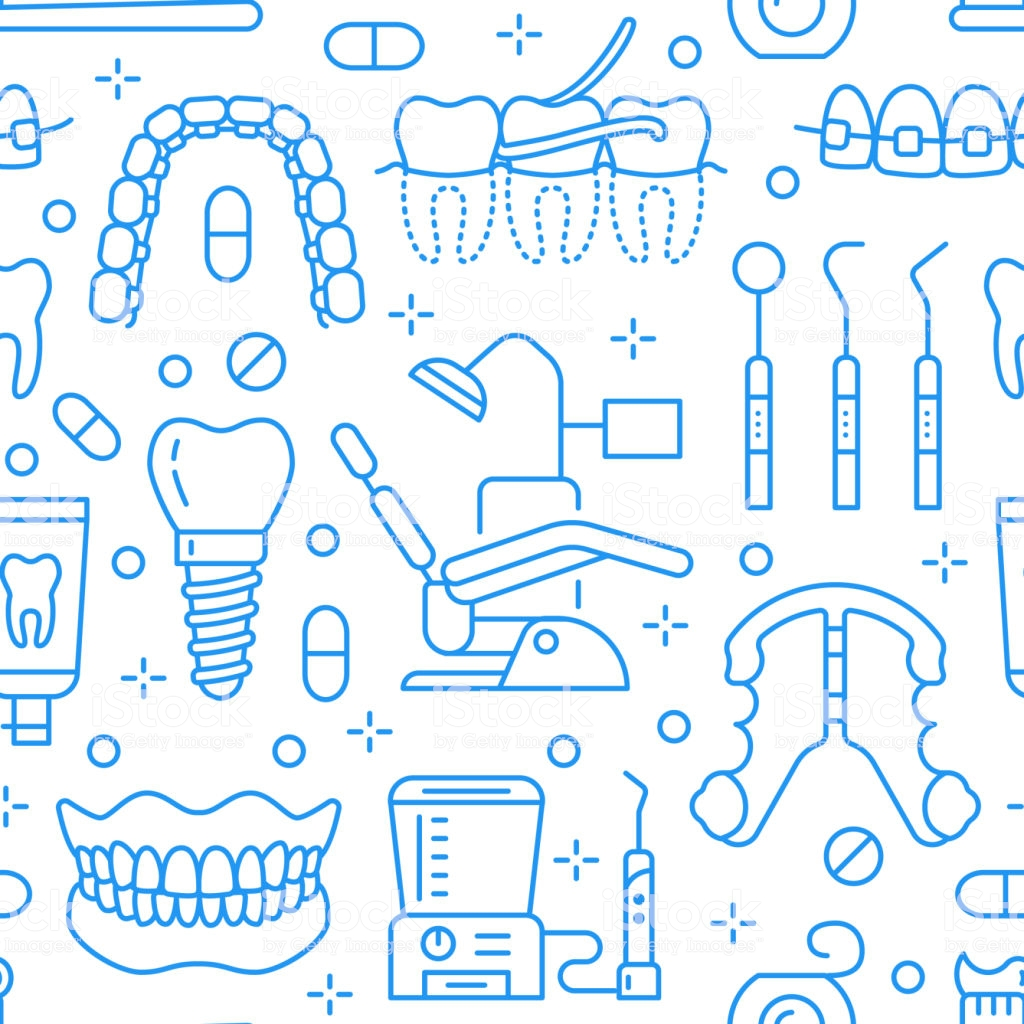
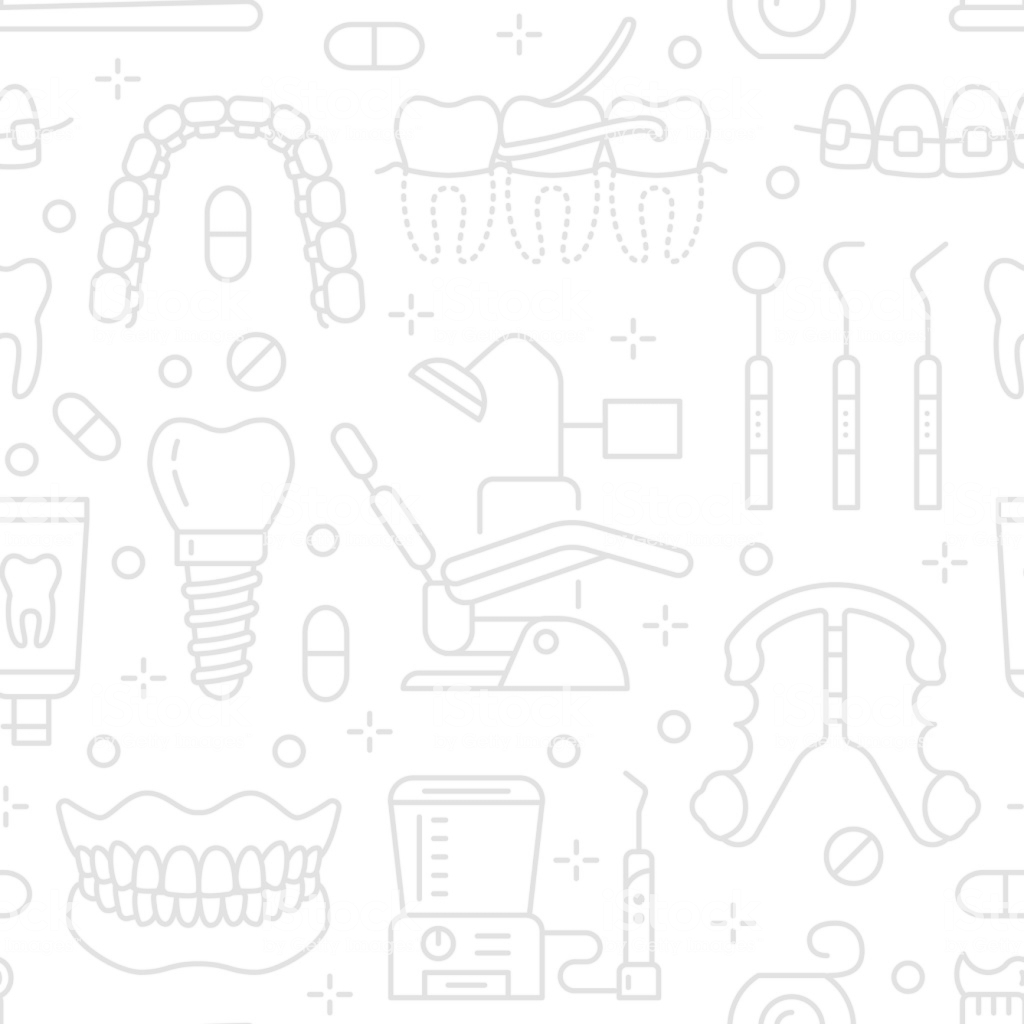
Últimos ajustes na estética / fundo Co-authored-by: Renan <renan.tssilva@gmail.com> Co-authored-by: Vitor <vitor.ricardo.oliveira@gmail.com> Co-authored-by: Eduardo <eduwzin@usp.br>

diff --git a/src/app/text-by-themes/text-by-themes.page.html b/src/app/text-by-themes/text-by-themes.page.html
@@ -15,7 +15,7 @@
 </ion-header>
 
 <ng-container *ngIf="myInput;else newTextList">
-  <ion-content padding>
+  <ion-content padding class="page-content">
     <ion-card *ngFor="let text of texts" (click)="goToDetail($event, text)">
       <ion-item>
         <span class="card-text">{{text.title}}</span>
@@ -25,7 +25,7 @@
 </ng-container>
 
 <ng-template #newTextList>
-  <ion-content padding>
+  <ion-content padding class="page-content">
     <ion-refresher (ionRefresh)="doRefresh($event)">
       <ion-refresher-content>
       </ion-refresher-content>

diff --git a/src/app/home/home.page.ts b/src/app/home/home.page.ts
@@ -28,7 +28,6 @@ export class HomePage {
     this.initialize();
   }
 
-
   async initialize() {
     const loading = await this.loadingCtrl.create({
       message: "Carregando"
@@ -42,7 +41,7 @@ export class HomePage {
           console.log(data)
         },
         error => {  
-          this.utilFunctions.presentAlert(error);
+          this.utilFunctions.presentAlert("Você está offline!\nVeja seus textos salvos.");
         }
       );
       loading.dismiss();

diff --git a/src/app/requisitions.service.ts b/src/app/requisitions.service.ts
@@ -7,7 +7,7 @@ import { Http, ResponseContentType } from '@angular/http'
 export class RequisitionsService {
   public key = 'cd48e1c22de0961d5d1bfb14f8a66e006cfb1cfbf3f0c0f3'
   //public endpoint = "http://evident.tk" 
-  public endpoint = "http://192.168.42.148:5000" 
+  public endpoint = "http://192.168.42.25:5000" 
   public bodyThemesList = { "key": this.key }
   public bodyTextList = {
                           "key": this.key,

diff --git a/src/app/my-saved-texts/my-saved-texts.page.html b/src/app/my-saved-texts/my-saved-texts.page.html
@@ -7,7 +7,7 @@
   </ion-toolbar>
 </ion-header>
 
-<ion-content padding>
+<ion-content padding class="page-content">
   <ion-card *ngFor="let text of texts" (click)="goToDetail(text.id)">
     <ion-img class="card-image" [src]="text.img"></ion-img>
     <ion-item>

diff --git a/src/app/home/home.page.scss b/src/app/home/home.page.scss
@@ -21,6 +21,10 @@ ion-grid {
     text-align: center;
 }
 
+.list {
+    background: none;
+}
+
 .list-button {
     --background: #ECECEC;
     --border-width: 3px;

diff --git a/src/theme/variables.scss b/src/theme/variables.scss
@@ -81,3 +81,7 @@
 
 }
 
+.page-content {
+  background-image: url("/assets/img/bg.jpg");
+  background-size: 100% auto;
+}

diff --git a/src/app/saved-text/saved-text.page.scss b/src/app/saved-text/saved-text.page.scss
@@ -26,7 +26,7 @@ ion-footer {
 }
 
 div.desc_slide {
-    margin: 10px;
+    padding: 10px;
     text-align: center;
 }
 
